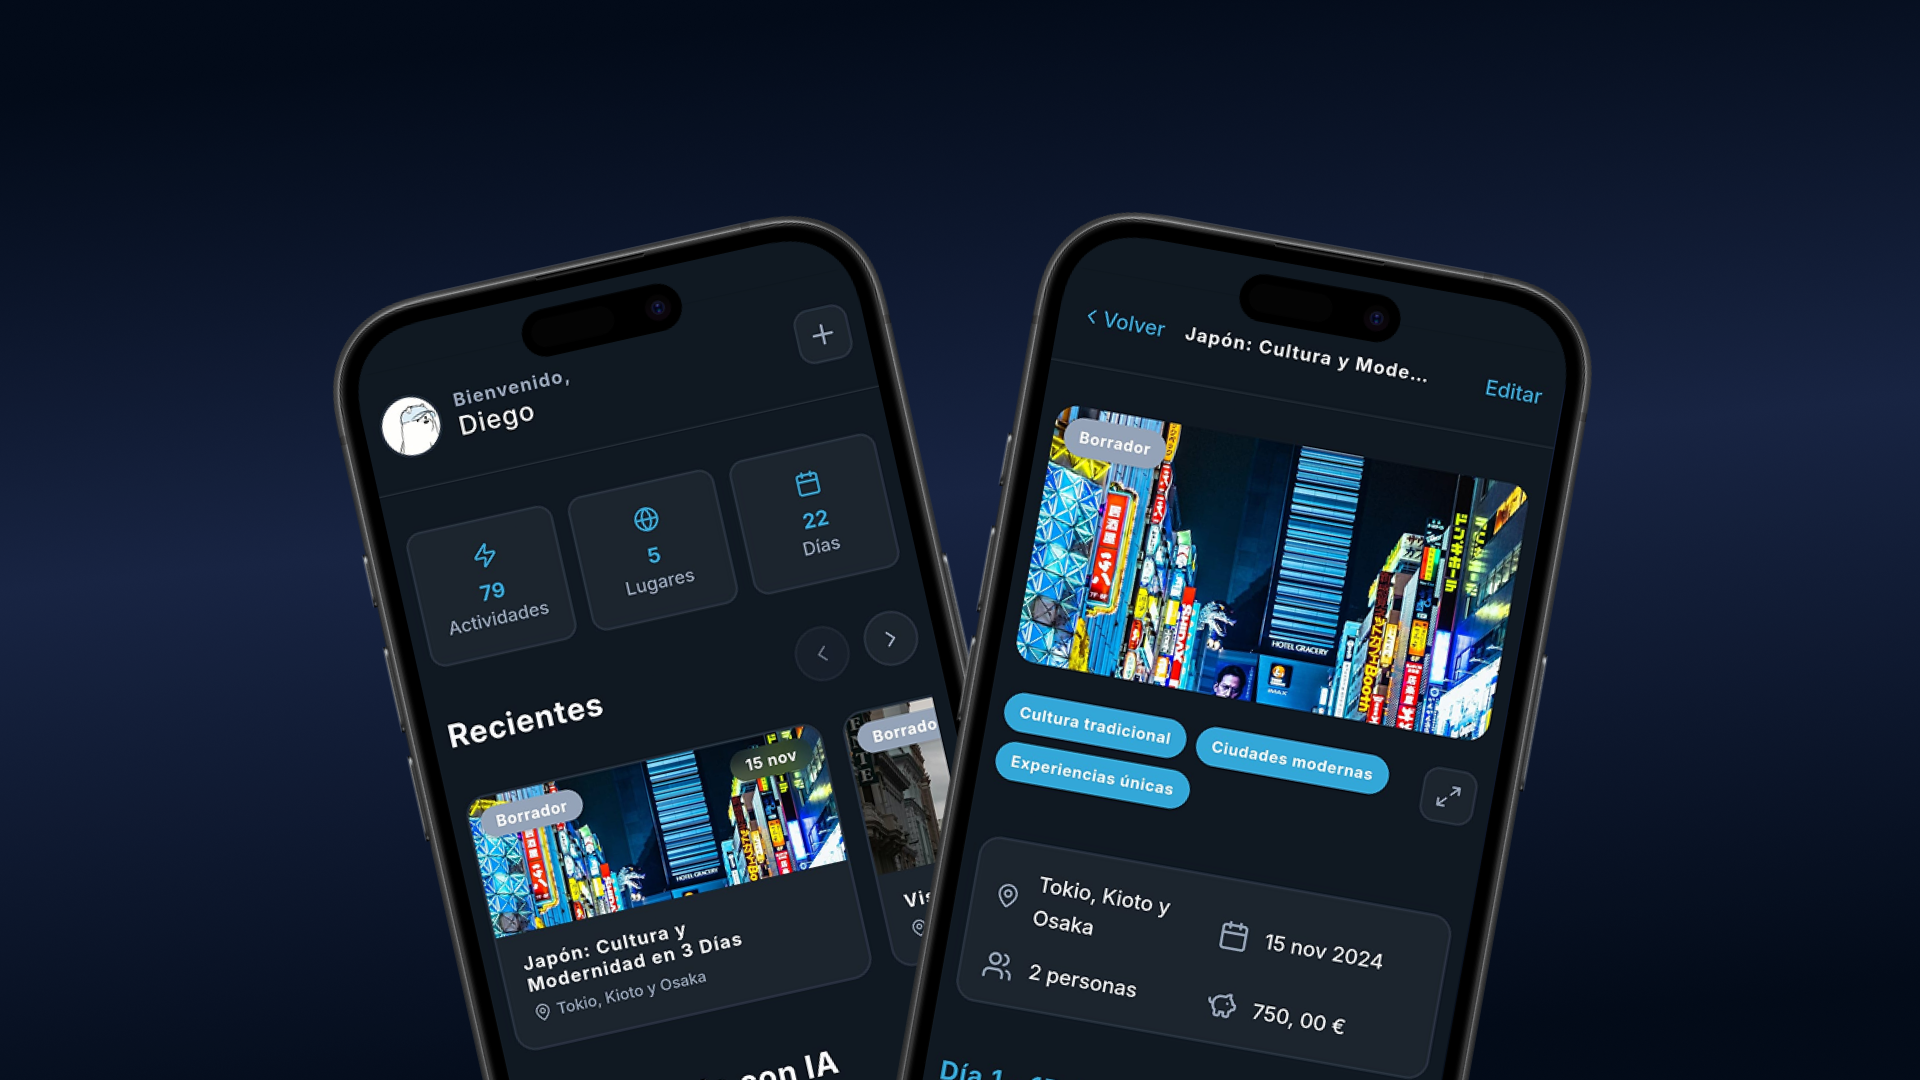
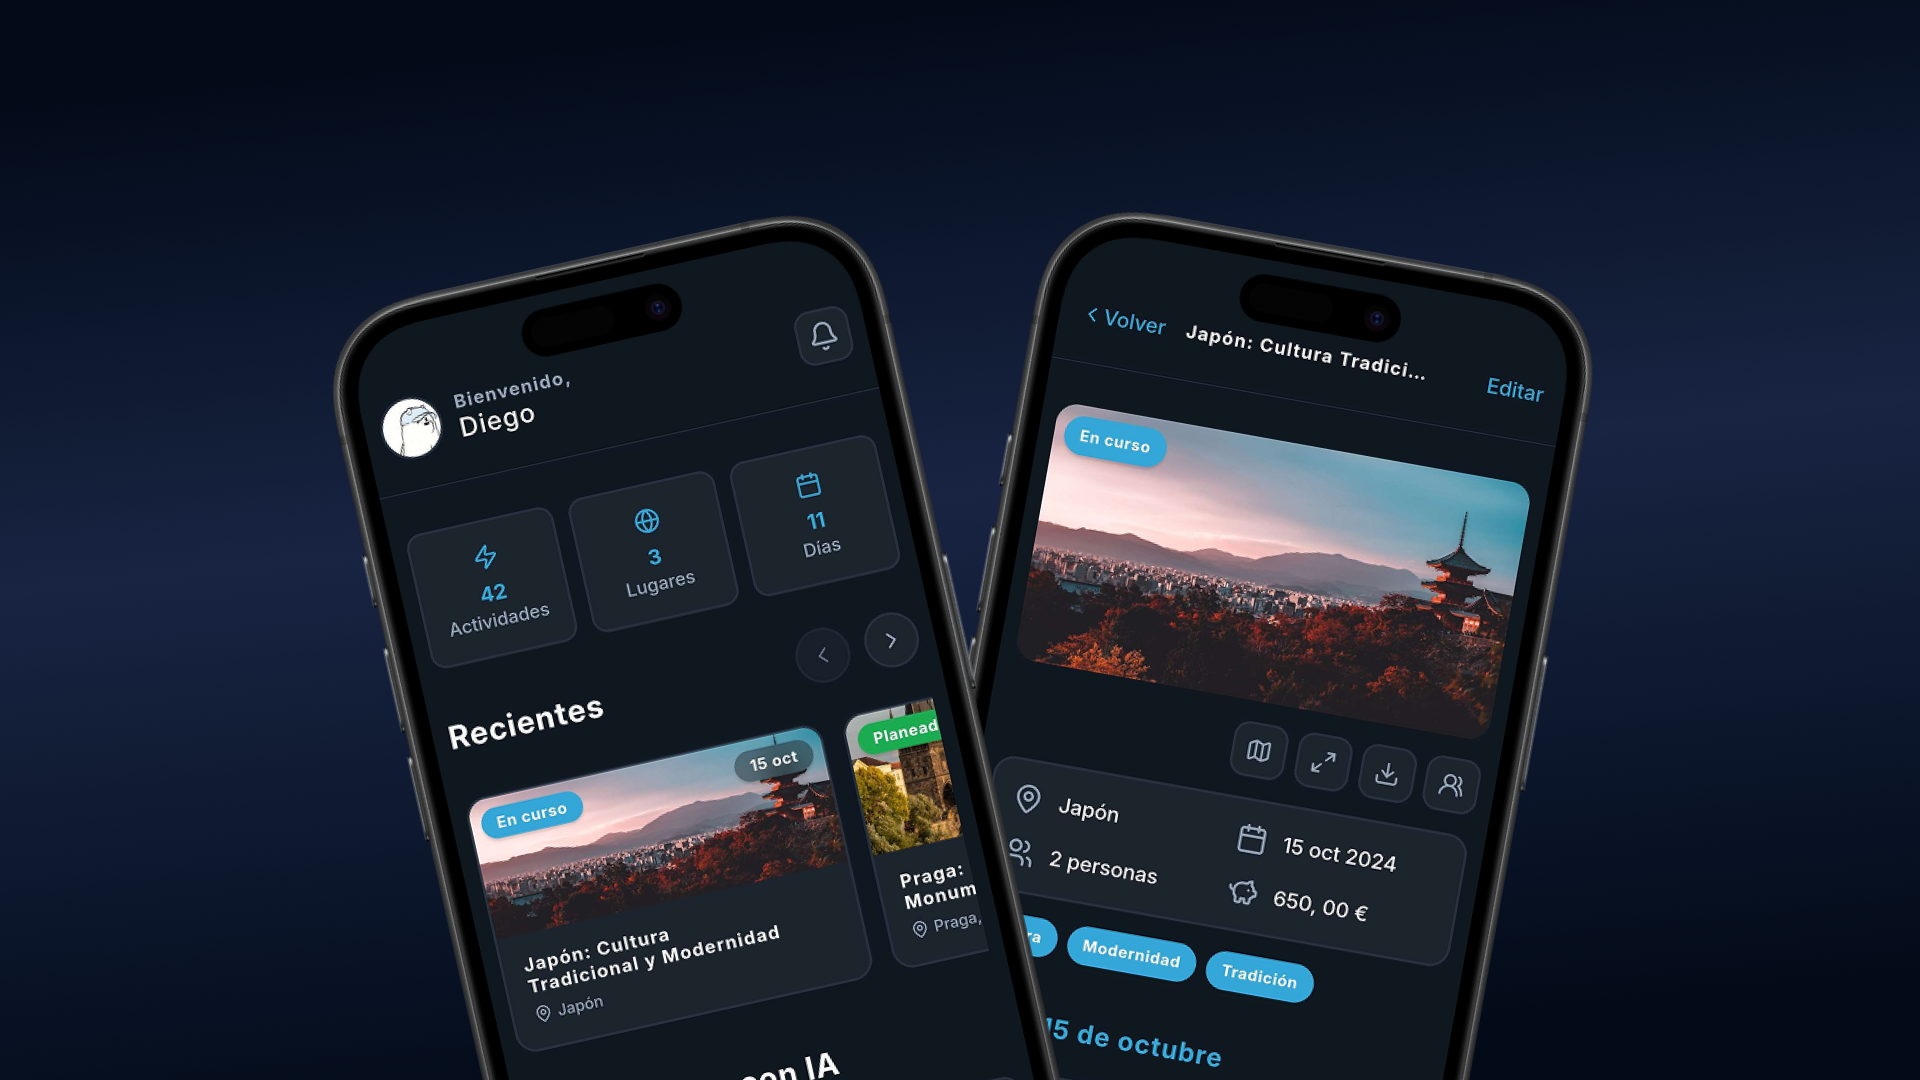
posts: Upload post 07

diff --git a/src/content/post/en/07-tripflow-v1.0.0.md b/src/content/post/en/07-tripflow-v1.0.0.md
@@ -1,0 +1,121 @@
+---
+title: "TripFlow v1.0.0: Collaborative Travel, Maps and Offline Access"
+description: "TripFlow v1.0.0 closes the Advanced Features V2 milestone with collaborative itineraries, secure share links, interactive maps, offline-first access, and PDF export."
+pubDate: 2026-04-15
+tags: ["TripFlow", "Travel", "React", "Spring Boot", "Docker", "Collaboration", "Maps", "PWA"]
+image: "/images/posts/tripflow-showcase.png"
+locale: "en"
+slug: "tripflow-v1.0.0"
+altSlug: "tripflow-v1.0.0-planificador-colaborativo"
+---
+
+**TripFlow v1.0.0** is here! 🚀
+
+This release marks the point where TripFlow moves from a powerful planner to a truly complete travel workspace.
+
+What began as a smart travel planner now becomes a collaborative, map-first, offline-ready product designed for real trips and real group planning.
+
+Version 1.0.0 closes the **Advanced Features V2** milestone and brings together the features users feel most in day-to-day usage: planning together, discovering faster, sharing safely, and keeping plans accessible anywhere.
+
+---
+
+<iframe src="https://www.youtube-nocookie.com/embed/qyVrn4decp4" title="TripFlow v1.0.0 Release" frameborder="0" allow="accelerometer; autoplay; clipboard-write; encrypted-media; gyroscope; picture-in-picture; web-share" referrerpolicy="strict-origin-when-cross-origin" allowfullscreen></iframe>
+
+---
+
+## ✨ What’s New in v1.0.0
+
+This is not a cosmetic update. v1.0.0 completes the product in the places where travel planning usually gets harder: group coordination, place discovery, unstable connection, and external sharing.
+
+With this release, TripFlow now delivers:
+
+- **Collaborative itineraries** with invite flows, role-based permissions, and invitation management.
+- **Secure share links** for public read-only access when you want to show a trip without exposing editing controls.
+- **Interactive maps** for exploring destinations, nearby places, and route visualization.
+- **Offline-first access** so travelers can keep reading itinerary content even when the connection is unreliable.
+- **Client-side PDF export** for downloading and sharing plans in a portable format.
+
+---
+
+## 🤝 Collaborative Itineraries
+
+Trip planning is rarely solo. In v1.0.0, collaboration becomes a first-class feature instead of a workaround.
+
+- **Invite flow**: owners can add collaborators directly to an itinerary.
+- **Role-based permissions**: collaboration supports **VIEWER**, **EDITOR**, and **OWNER** roles.
+- **Invitation lifecycle**: pending invitations can be accepted or declined.
+- **Live refresh**: collaboration changes are reflected in the interface without forcing a full manual refresh.
+
+---
+
+## 🔗 Secure Share Links
+
+Not every trip needs full collaboration. Sometimes the goal is simply to share a plan quickly while keeping control.
+
+TripFlow v1.0.0 adds secure share links for exactly that use case:
+
+- **Public read-only access** through tokenized links.
+- **Owner controls** to create, list, and revoke links.
+- **TTL-based expiration** to keep shared access limited over time.
+- **Simple sharing flow** so users can copy and distribute links with minimal friction.
+
+This keeps shared trips practical for users and safer by default for owners.
+
+---
+
+## 🗺️ Interactive Maps and Discovery
+
+One of the biggest improvements in this release is the map-first discovery flow. TripFlow now helps users explore options visually instead of relying only on manual itinerary editing.
+
+The new maps layer includes:
+
+- **Map visualization** for itineraries and route context.
+- **Nearby discovery** with geolocation-first exploration.
+- **Smart search** using query plus radius filtering.
+- **Direct trip integration** so recommended places can be added into itinerary days.
+
+![TripFlow v1.0.0 Mobile Showcase](/images/posts/tripflow-v1.0.0-mobile-preview.png)
+
+---
+
+## 📶 PWA Offline Access
+
+Travel rarely happens with perfect connectivity. v1.0.0 introduces offline-first behavior so itinerary information remains available when users need it most.
+
+To support that reality, v1.0.0 includes:
+
+- **Offline read mode** for itinerary content.
+- **Service Worker setup** for PWA behavior.
+- **Caching strategies** that keep core trip data available across unstable connections.
+
+This release keeps the goal practical: reliable read access to core itinerary content even under unstable networks.
+
+---
+
+## 📄 Client-Side PDF Export
+
+Sometimes the most valuable feature is the one that makes your plan portable in seconds.
+
+TripFlow v1.0.0 includes client-side PDF export so users can download and share their plans in a format that works outside the app.
+
+- **Export action** directly from the frontend.
+- **Portable format** for sharing and archiving itineraries.
+- **Local generation** to keep the process fast and self-contained.
+
+It is a compact feature with immediate value: users can leave the app with a document they can use anywhere.
+
+---
+
+## 🌱 What’s Next
+
+v1.0.0 closes the Advanced Features V2 chapter and gives TripFlow a much stronger product foundation. The app now combines generation, collaboration, discovery, offline access, and export in one coherent experience.
+
+From here, the roadmap builds on a platform that already feels complete for everyday travel planning.
+
+Planned for post-v1 evolution:
+
+- 💸 **Smart Budget Planner** for daily forecasting and budget alerts.
+- 💳 **Plans and Payments** with subscription tiers, checkout, and billing history.
+- 🏆 **Travel Achievements and Gamification** to reinforce user engagement over time.
+
+![TripFlow Banner](/images/posts/tripflow-banner.png)

diff --git a/src/content/post/es/07-tripflow-v1.0.0.md b/src/content/post/es/07-tripflow-v1.0.0.md
@@ -1,0 +1,121 @@
+---
+title: "TripFlow v1.0.0: Viajes colaborativos, mapas y acceso offline"
+description: "TripFlow v1.0.0 cierra el hito Advanced Features V2 con itinerarios colaborativos, enlaces seguros para compartir, mapas interactivos, acceso offline-first y exportación en PDF."
+pubDate: 2026-04-15
+tags: ["TripFlow", "Travel", "React", "Spring Boot", "Docker", "Collaboration", "Maps", "PWA"]
+image: "/images/posts/tripflow-showcase.png"
+locale: "es"
+slug: "tripflow-v1.0.0-planificador-colaborativo"
+altSlug: "tripflow-v1.0.0"
+---
+
+**¡TripFlow v1.0.0 ya está aquí!** 🚀
+
+Este lanzamiento marca el momento en el que TripFlow pasa de ser un planificador potente a convertirse en un espacio de trabajo de viaje realmente completo.
+
+Lo que empezó como un planificador inteligente de viajes ahora se convierte en un producto colaborativo, centrado en mapas y preparado para funcionar sin conexión, diseñado para viajes reales y para planificar en grupo de verdad.
+
+La versión 1.0.0 cierra el hito **Advanced Features V2** y reúne las funcionalidades que más se notan en el día a día: planificar en equipo, descubrir más rápido, compartir con seguridad y mantener los planes accesibles desde cualquier lugar.
+
+---
+
+<iframe src="https://www.youtube-nocookie.com/embed/qyVrn4decp4" title="Lanzamiento de TripFlow v1.0.0" frameborder="0" allow="accelerometer; autoplay; clipboard-write; encrypted-media; gyroscope; picture-in-picture; web-share" referrerpolicy="strict-origin-when-cross-origin" allowfullscreen></iframe>
+
+---
+
+## ✨ Novedades de la v1.0.0
+
+Esta no es una actualización cosmética. La v1.0.0 completa el producto justo en los puntos donde normalmente planificar un viaje se vuelve más difícil: coordinación en grupo, descubrimiento de lugares, conexiones inestables y compartición externa.
+
+Con este lanzamiento, TripFlow ahora ofrece:
+
+- **Itinerarios colaborativos** con flujo de invitaciones, permisos por rol y gestión de invitaciones.
+- **Enlaces seguros para compartir** con acceso público de solo lectura cuando quieres mostrar un viaje sin exponer controles de edición.
+- **Mapas interactivos** para explorar destinos, lugares cercanos y visualización de rutas.
+- **Acceso offline-first** para que los viajeros puedan seguir consultando el itinerario incluso con conexión poco fiable.
+- **Exportación de PDF en cliente** para descargar y compartir planes en un formato portátil.
+
+---
+
+## 🤝 Itinerarios colaborativos
+
+Planificar un viaje rara vez es algo individual. En la v1.0.0, la colaboración pasa a ser una funcionalidad de primera clase en lugar de una solución temporal.
+
+- **Flujo de invitación**: los propietarios pueden añadir colaboradores directamente a un itinerario.
+- **Permisos por rol**: la colaboración soporta roles **VIEWER**, **EDITOR** y **OWNER**.
+- **Ciclo de vida de invitaciones**: las invitaciones pendientes pueden aceptarse o rechazarse.
+- **Actualización en vivo**: los cambios de colaboración se reflejan en la interfaz sin forzar una recarga manual completa.
+
+---
+
+## 🔗 Enlaces seguros para compartir
+
+No todos los viajes necesitan colaboración completa. A veces el objetivo es simplemente compartir un plan rápido, manteniendo el control.
+
+TripFlow v1.0.0 añade enlaces seguros para compartir precisamente para ese caso de uso:
+
+- **Acceso público de solo lectura** mediante enlaces con token.
+- **Controles para propietarios** para crear, listar y revocar enlaces.
+- **Caducidad basada en TTL** para mantener el acceso compartido limitado en el tiempo.
+- **Flujo simple para compartir** para que los usuarios puedan copiar y distribuir enlaces con mínima fricción.
+
+Esto mantiene los viajes compartidos prácticos para las personas usuarias y, por defecto, más seguros para quienes los gestionan.
+
+---
+
+## 🗺️ Mapas interactivos y descubrimiento
+
+Una de las mejoras más importantes de este lanzamiento es el flujo de descubrimiento centrado en mapas. Ahora TripFlow ayuda a explorar opciones de forma visual, en lugar de depender solo de la edición manual del itinerario.
+
+La nueva capa de mapas incluye:
+
+- **Visualización en mapa** de itinerarios y contexto de rutas.
+- **Descubrimiento cercano** con exploración geolocalizada.
+- **Búsqueda inteligente** mediante consulta más filtrado por radio.
+- **Integración directa con el viaje** para añadir lugares recomendados a los días del itinerario.
+
+![Vista móvil de TripFlow v1.0.0](/images/posts/tripflow-v1.0.0-mobile-preview.png)
+
+---
+
+## 📶 Acceso offline en PWA
+
+Viajar rara vez ocurre con conectividad perfecta. La v1.0.0 introduce un comportamiento offline-first para que la información del itinerario siga disponible cuando más se necesita.
+
+Para responder a esa realidad, la v1.0.0 incluye:
+
+- **Modo de lectura offline** para el contenido del itinerario.
+- **Configuración de Service Worker** para el comportamiento PWA.
+- **Estrategias de caché** que mantienen disponibles los datos clave del viaje ante conexiones inestables.
+
+Este lanzamiento mantiene un objetivo práctico: acceso fiable de lectura al contenido esencial del itinerario, incluso bajo redes inestables.
+
+---
+
+## 📄 Exportación de PDF en cliente
+
+A veces, la funcionalidad más valiosa es la que vuelve tu plan portátil en segundos.
+
+TripFlow v1.0.0 incluye exportación de PDF en cliente para que los usuarios puedan descargar y compartir sus planes en un formato que funciona fuera de la app.
+
+- **Acción de exportar** directamente desde el frontend.
+- **Formato portable** para compartir y archivar itinerarios.
+- **Generación local** para que el proceso sea rápido y autosuficiente.
+
+Es una funcionalidad compacta con valor inmediato: puedes salir de la app con un documento útil en cualquier lugar.
+
+---
+
+## 🌱 Qué viene después
+
+La v1.0.0 cierra la etapa de Advanced Features V2 y le da a TripFlow una base de producto mucho más sólida. La app ahora combina generación, colaboración, descubrimiento, acceso offline y exportación en una experiencia coherente.
+
+A partir de aquí, la hoja de ruta crece sobre una plataforma que ya se siente completa para la planificación diaria de viajes.
+
+Planificado para la evolución post-v1:
+
+- 💸 **Smart Budget Planner** para previsión diaria y alertas de presupuesto.
+- 💳 **Planes y pagos** con niveles de suscripción, checkout e historial de facturación.
+- 🏆 **Logros de viaje y gamificación** para reforzar la participación de los usuarios con el tiempo.
+
+![Banner de TripFlow](/images/posts/tripflow-banner.png)